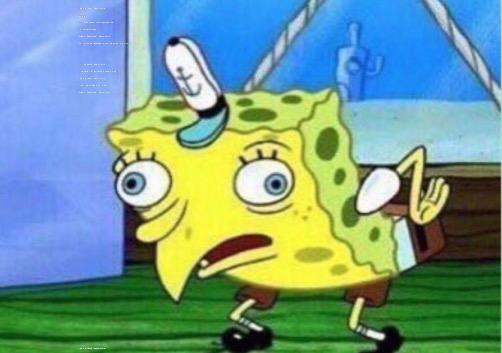
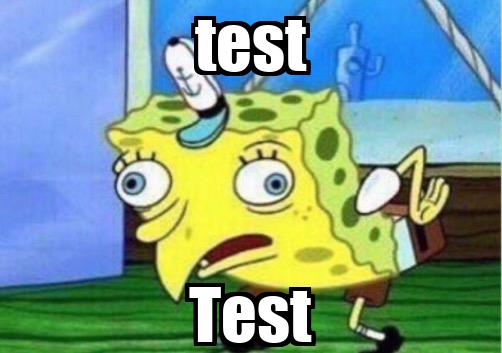
new meme danger-zucc

diff --git a/DMG.py b/DMG.py
@@ -36,7 +36,7 @@ bottomlist = []
 # memes that use )top )bottom )tb
 # TODO: Make a list for top and bottom only memes?
 topBottomList = [
-    '10-guy', 'bad-luck-brian', 'good-guy-greg', 'roll-safe',
+    '10-guy', 'bad-luck-brian', 'danger-zucc', 'good-guy-greg', 'roll-safe',
     'simply', 'successkid', 'willy-wonka', 'zucc']
 
 # read token file
